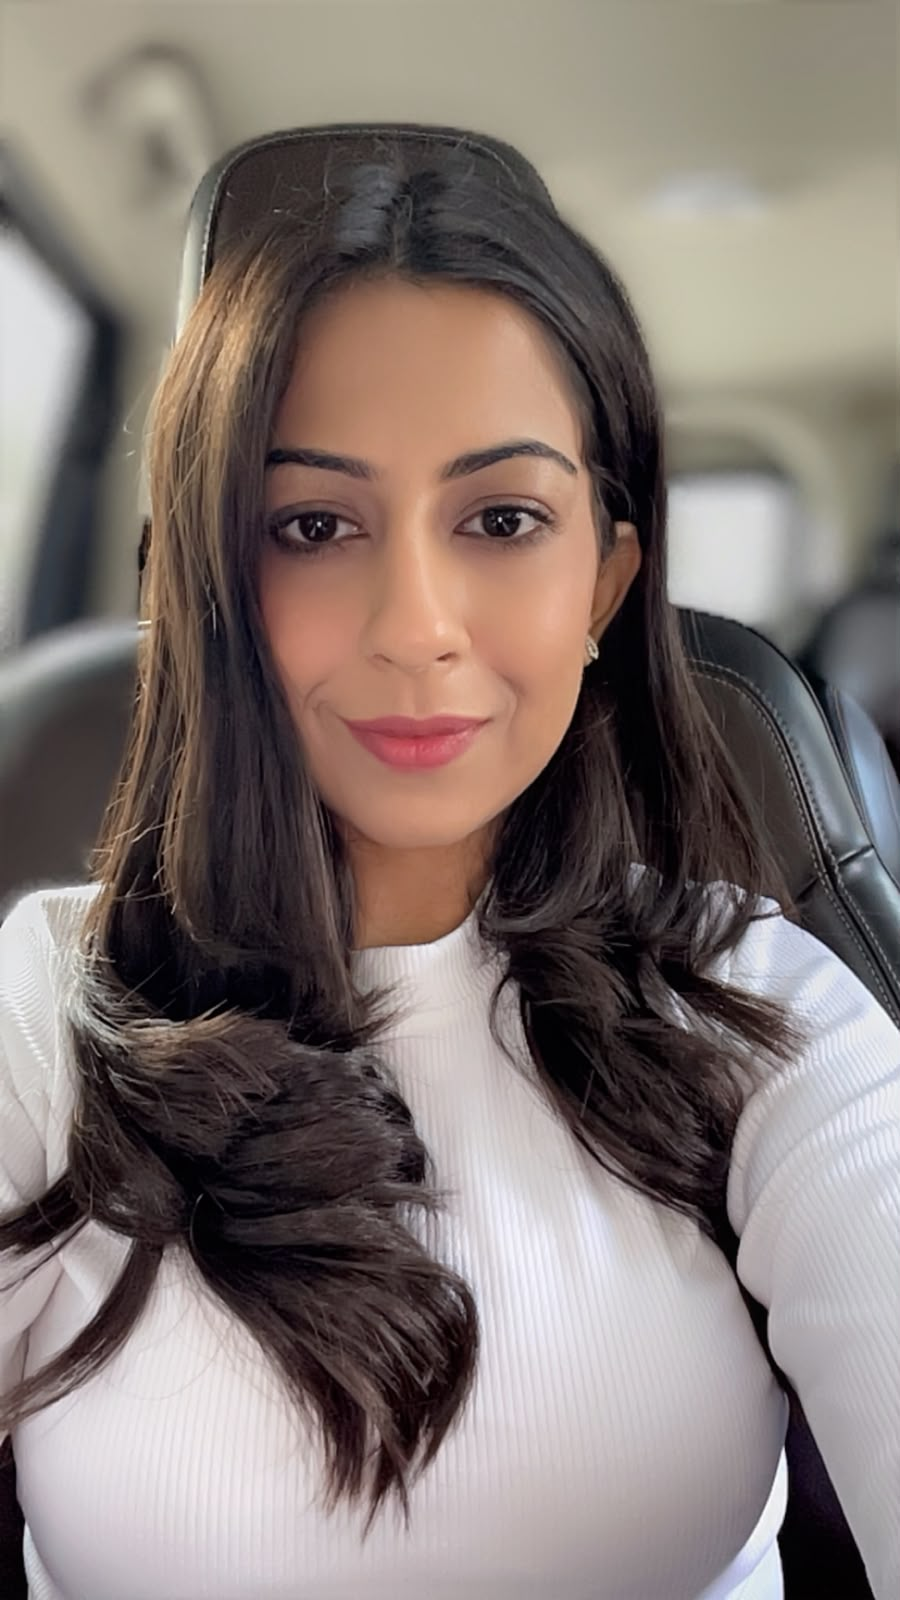
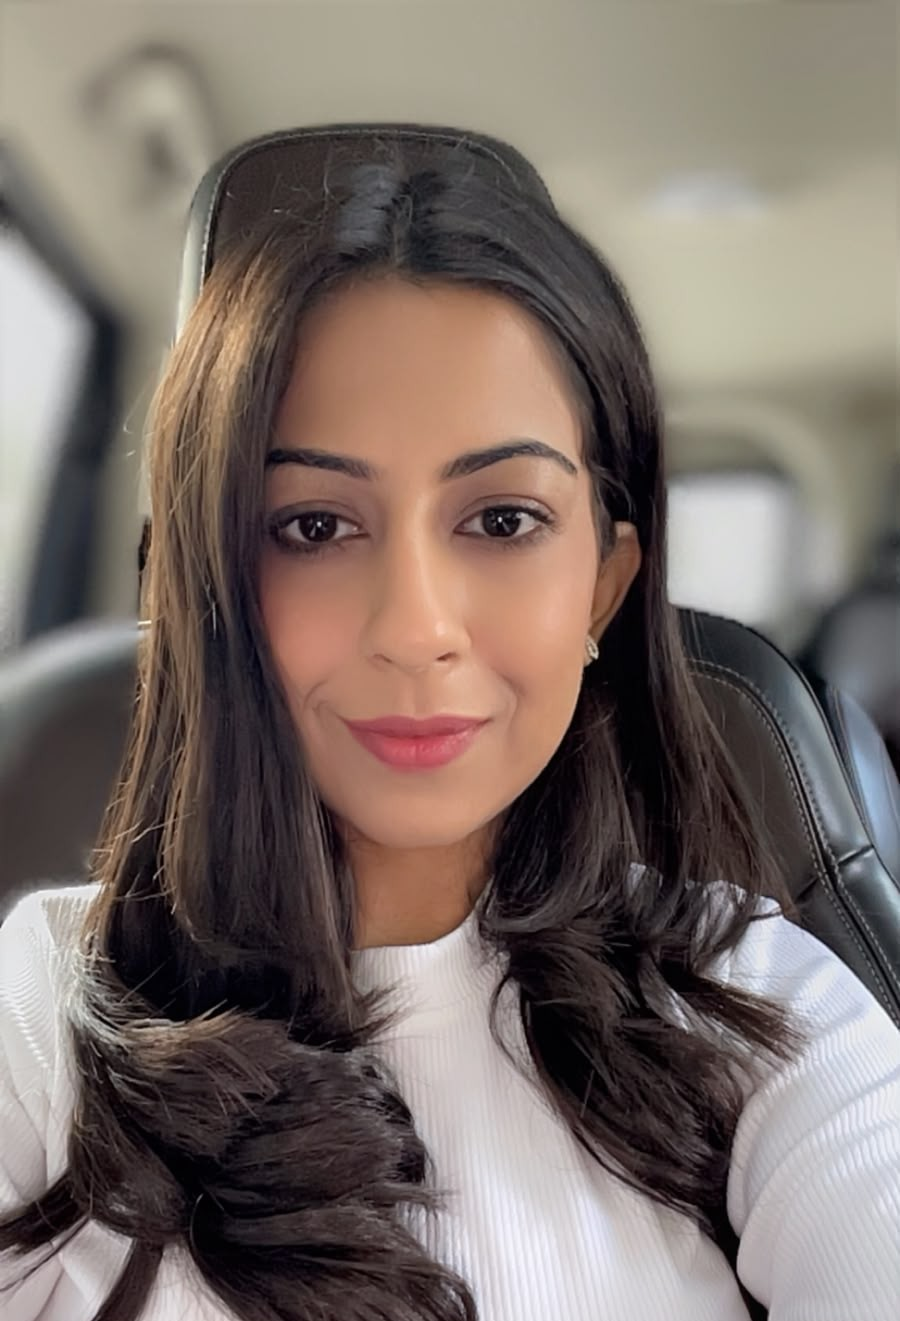
fix(checkout): streamline payment UI, place pay button prominently, and remove tax labels

diff --git a/src/app/payment/PaymentClient.tsx b/src/app/payment/PaymentClient.tsx
@@ -295,6 +295,12 @@ export default function PaymentClient() {
 
   // Render Checkout Order View
   const feeRupees = (session.amountPaise / 100).toFixed(2);
+  const isInternship = session.productKey === 'internship_enrollment';
+  const displayProductName = isInternship
+    ? (session.productName && !session.productName.includes('Evaluation Fee')
+        ? session.productName
+        : 'September Two-Week Legal Media Internship')
+    : session.productName;
 
   return (
     <div className="max-w-2xl mx-auto my-10 sm:my-16 px-4 space-y-8">
@@ -327,13 +333,12 @@ export default function PaymentClient() {
         <div className="p-6 bg-paper dark:bg-ink-900 border border-ink-900/15 dark:border-ink-700 space-y-4 rounded-sm">
           <div className="flex justify-between items-start">
             <div className="space-y-0.5">
-              <span className="text-xs text-ink-500 dark:text-ink-400 font-mono uppercase">Designated Service</span>
-              <h3 className="text-base font-serif font-bold text-ink-950 dark:text-ink-50">
-                {session.productName}
-              </h3>
-              <span className="text-[11px] font-mono text-ink-500 block">
-                Inclusive of all applicable taxes
+              <span className="text-xs text-ink-500 dark:text-ink-400 font-mono uppercase font-semibold">
+                {isInternship ? 'Internship Programme' : 'Designated Service'}
               </span>
+              <h3 className="text-base font-serif font-bold text-ink-950 dark:text-ink-50">
+                {displayProductName}
+              </h3>
             </div>
             <div className="text-right">
               <div className="flex items-baseline space-x-2 justify-end">
@@ -369,27 +374,42 @@ export default function PaymentClient() {
           </div>
         </div>
 
-        {/* Non-Guarantee & Compliance Disclosure */}
-        <div className="p-4 bg-amber-50/70 dark:bg-amber-950/30 border border-amber-500/30 text-xs text-amber-900 dark:text-amber-200 rounded-sm space-y-1.5 leading-relaxed font-normal">
-          <strong className="block font-serif text-sm text-ink-950 dark:text-ink-50">
-            Mandatory Evaluation Disclosure:
-          </strong>
-          <p>
-            Payment covers operational evaluation, academic intake triage, and peer-review coordination. <strong>Payment does not guarantee fellowship selection, article publication, or certificate issuance.</strong> Lex Minds is an educational platform and is not a law firm; we do not provide legal advice or representation.
+        {/* Pay Action Button (Prominently placed in lieu of evaluation disclosure) */}
+        <div className="space-y-3">
+          <button
+            onClick={handleLaunchPayment}
+            disabled={paying}
+            className="w-full py-4 px-6 btn-brand-primary text-sm uppercase font-semibold tracking-wider flex items-center justify-center space-x-2 disabled:opacity-50 shadow-md hover:shadow-lg transition-all cursor-pointer"
+          >
+            {paying ? (
+              <>
+                <Loader2 className="w-5 h-5 animate-spin" />
+                <span>Processing Payment...</span>
+              </>
+            ) : (
+              <>
+                <CreditCard className="w-5 h-5" />
+                <span>Pay ₹{feeRupees} via Razorpay</span>
+              </>
+            )}
+          </button>
+
+          <p className="text-xs font-mono text-center text-ink-500 dark:text-ink-400">
+            Secure checkout &bull; Instant reconciliation with docket {session.referenceId}
           </p>
         </div>
 
         {/* Security Guarantees & Policy Links */}
-        <div className="space-y-2 text-xs text-ink-500 dark:text-ink-400 font-mono">
+        <div className="space-y-2.5 text-xs text-ink-500 dark:text-ink-400 font-mono pt-2 border-t border-ink-900/10 dark:border-ink-800">
           <div className="flex items-center space-x-2">
-            <ShieldCheck className="w-4 h-4 text-royal-500 shrink-0" />
-            <span>Encrypted checkout processed directly via Razorpay. Card/UPI credentials are never stored on Lex Minds servers.</span>
+            <ShieldCheck className="w-4 h-4 text-emerald-600 dark:text-emerald-400 shrink-0" />
+            <span>Encrypted 256-bit SSL checkout processed directly via Razorpay. UPI, Cards &amp; NetBanking supported.</span>
           </div>
           <div className="flex items-center space-x-2">
             <Lock className="w-4 h-4 text-royal-500 shrink-0" />
-            <span>This payment session link is valid for 30 minutes from form submission.</span>
+            <span>Card/UPI credentials are never stored on Lex Minds servers. Session valid for 30 minutes.</span>
           </div>
-          <div className="pt-2 border-t border-ink-900/10 dark:border-ink-800 text-[11px] text-ink-600 dark:text-ink-400">
+          <div className="pt-2 text-[11px] text-ink-600 dark:text-ink-400">
             By proceeding with payment, you acknowledge that you have read and agree to our{' '}
             <Link href="/terms" className="text-royal-600 dark:text-royal-400 underline font-bold" target="_blank">
               Terms &amp; Conditions
@@ -401,31 +421,6 @@ export default function PaymentClient() {
               Cancellation &amp; Refund Policy
             </Link>.
           </div>
-        </div>
-
-        {/* Action Button */}
-        <div className="pt-2 space-y-3">
-          <button
-            onClick={handleLaunchPayment}
-            disabled={paying}
-            className="w-full py-4 px-6 btn-brand-primary text-xs uppercase font-semibold tracking-wider flex items-center justify-center space-x-2 disabled:opacity-50"
-          >
-            {paying ? (
-              <>
-                <Loader2 className="w-4 h-4 animate-spin" />
-                <span>Processing Payment...</span>
-              </>
-            ) : (
-              <>
-                <CreditCard className="w-4 h-4" />
-                <span>Pay ₹{feeRupees} via Razorpay</span>
-              </>
-            )}
-          </button>
-
-          <p className="text-xs font-mono text-center text-ink-500 dark:text-ink-400">
-            Reconciles submission with docket {session.referenceId}.
-          </p>
         </div>
 
       </div>

diff --git a/src/app/terms/page.tsx b/src/app/terms/page.tsx
@@ -354,8 +354,7 @@ export default function TermsPage() {
               <div className="text-xs font-mono font-bold uppercase text-royal-600 dark:text-royal-400">Paid Product 01</div>
               <h4 className="font-serif font-bold text-ink-950 dark:text-ink-50 text-sm">Internship / Fellowship Application Evaluation Fee</h4>
               <div className="text-base font-serif font-bold text-ink-950 dark:text-ink-50">
-                ₹39.00 INR <span className="text-xs line-through text-ink-400 font-normal">₹299.00</span>{' '}
-                <span className="text-[11px] font-mono text-ink-500 font-normal">(Inclusive of all applicable taxes)</span>
+                ₹39.00 INR <span className="text-xs line-through text-ink-400 font-normal">₹299.00</span>
               </div>
               <p className="text-xs text-ink-600 dark:text-ink-400">
                 Covers administrative intake, academic eligibility screening, Statement of Purpose (SOP) evaluation, and docket creation.
@@ -366,8 +365,7 @@ export default function TermsPage() {
               <div className="text-xs font-mono font-bold uppercase text-royal-600 dark:text-royal-400">Paid Product 02</div>
               <h4 className="font-serif font-bold text-ink-950 dark:text-ink-50 text-sm">Article Manuscript Editorial Evaluation Fee</h4>
               <div className="text-base font-serif font-bold text-ink-950 dark:text-ink-50">
-                ₹99.00 INR <span className="text-xs line-through text-ink-400 font-normal">₹399.00</span>{' '}
-                <span className="text-[11px] font-mono text-ink-500 font-normal">(Inclusive of all applicable taxes)</span>
+                ₹99.00 INR <span className="text-xs line-through text-ink-400 font-normal">₹399.00</span>
               </div>
               <p className="text-xs text-ink-600 dark:text-ink-400">
                 Covers intake screening, originality/anti-plagiarism screening, peer-review coordination, and editorial formatting review.

diff --git a/src/app/internships/[slug]/InternshipDetailClient.tsx b/src/app/internships/[slug]/InternshipDetailClient.tsx
@@ -201,8 +201,8 @@ export default function InternshipDetailClient({ internship }: Props) {
             <div className="space-y-1.5">
               <div className="flex items-center justify-between font-mono text-xs">
                 <span className="uppercase text-ink-500 dark:text-ink-400">Registration Fee</span>
-                <span className="text-[11px] text-royal-600 dark:text-royal-400 font-semibold">
-                  Inclusive of All Taxes
+                <span className="text-[11px] text-emerald-600 dark:text-emerald-400 font-semibold">
+                  Verified Program
                 </span>
               </div>
               <div className="flex items-baseline space-x-2">

diff --git a/src/app/publish/PublishClient.tsx b/src/app/publish/PublishClient.tsx
@@ -485,9 +485,6 @@ export default function PublishClient() {
                 <span className="text-xs line-through text-ink-400 ml-1.5">₹399.00</span>
               </div>
             </div>
-            <div className="text-[10px] text-ink-400 text-right">
-              Inclusive of all applicable taxes
-            </div>
           </div>
         </div>
 

diff --git a/src/lib/payment-service.ts b/src/lib/payment-service.ts
@@ -11,7 +11,7 @@ export const PRODUCT_CATALOG: Record<
   { name: string; amountPaise: number; currency: string }
 > = {
   internship_enrollment: {
-    name: 'Internship & Fellowship Application Evaluation Fee',
+    name: 'September Two-Week Legal Media Internship',
     amountPaise: 3900, // ₹39.00 (discounted from ₹299.00)
     currency: 'INR',
   },
